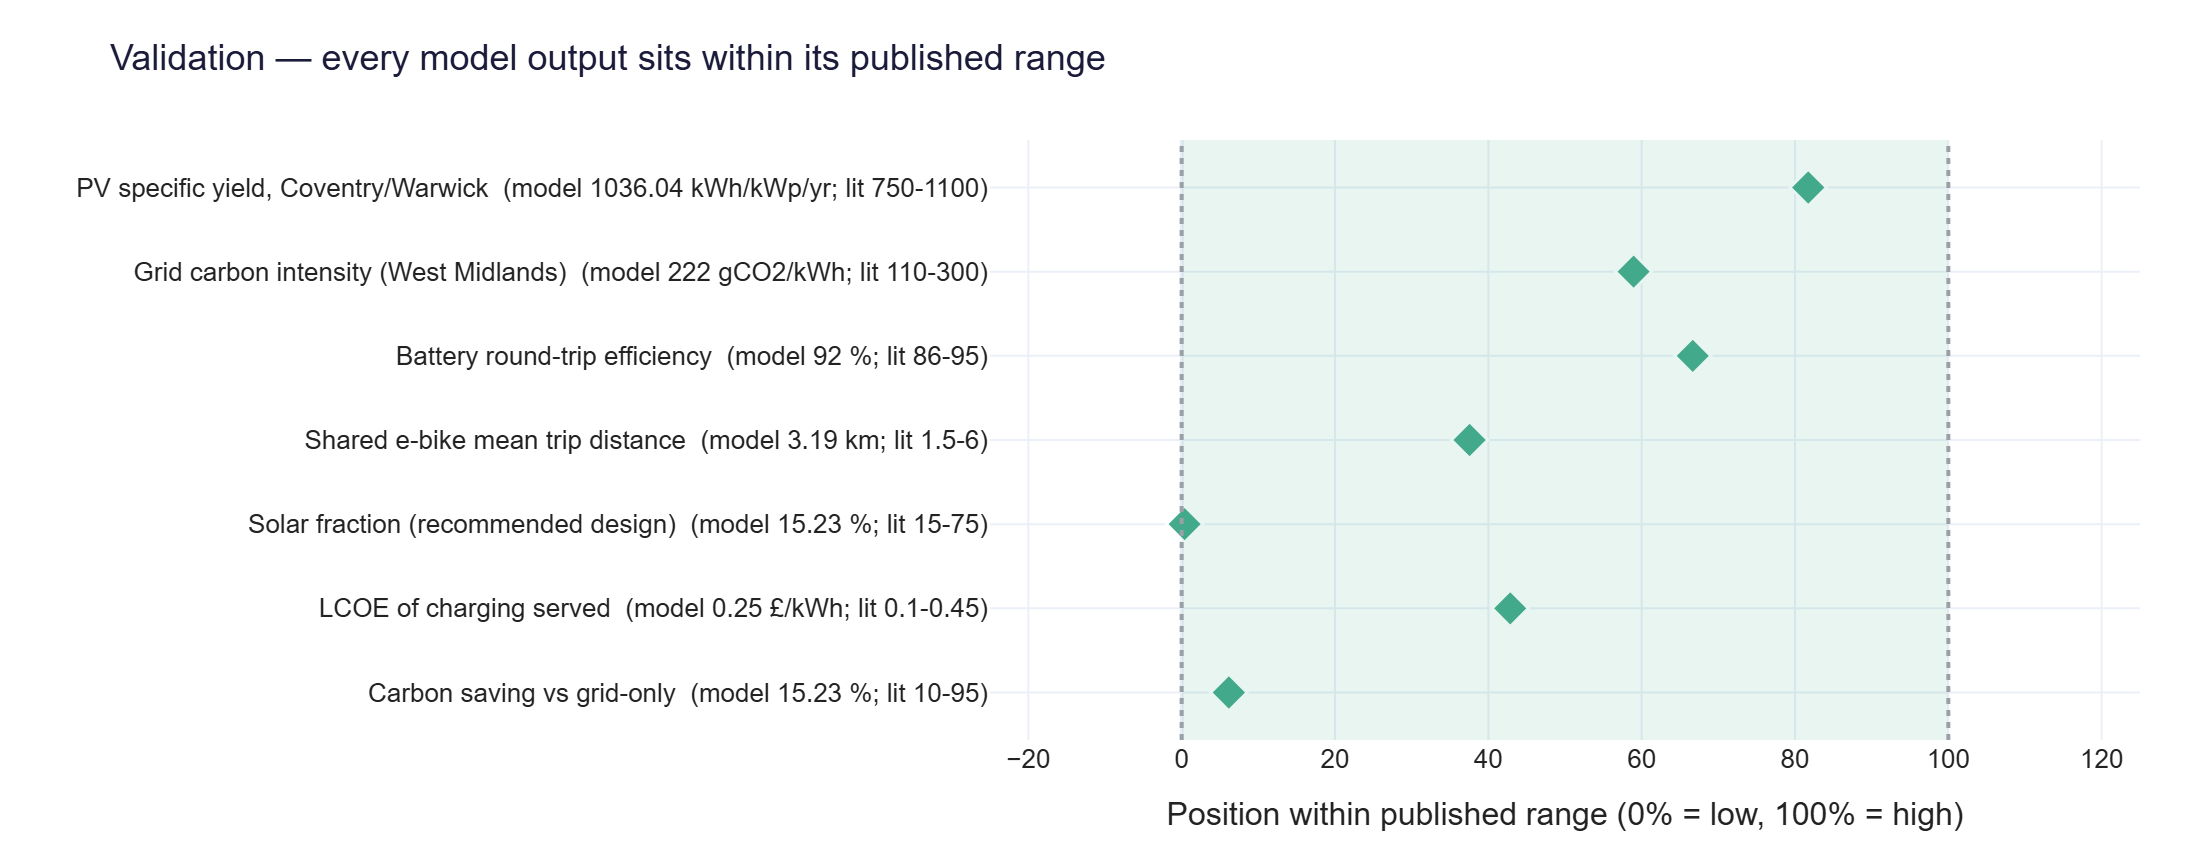
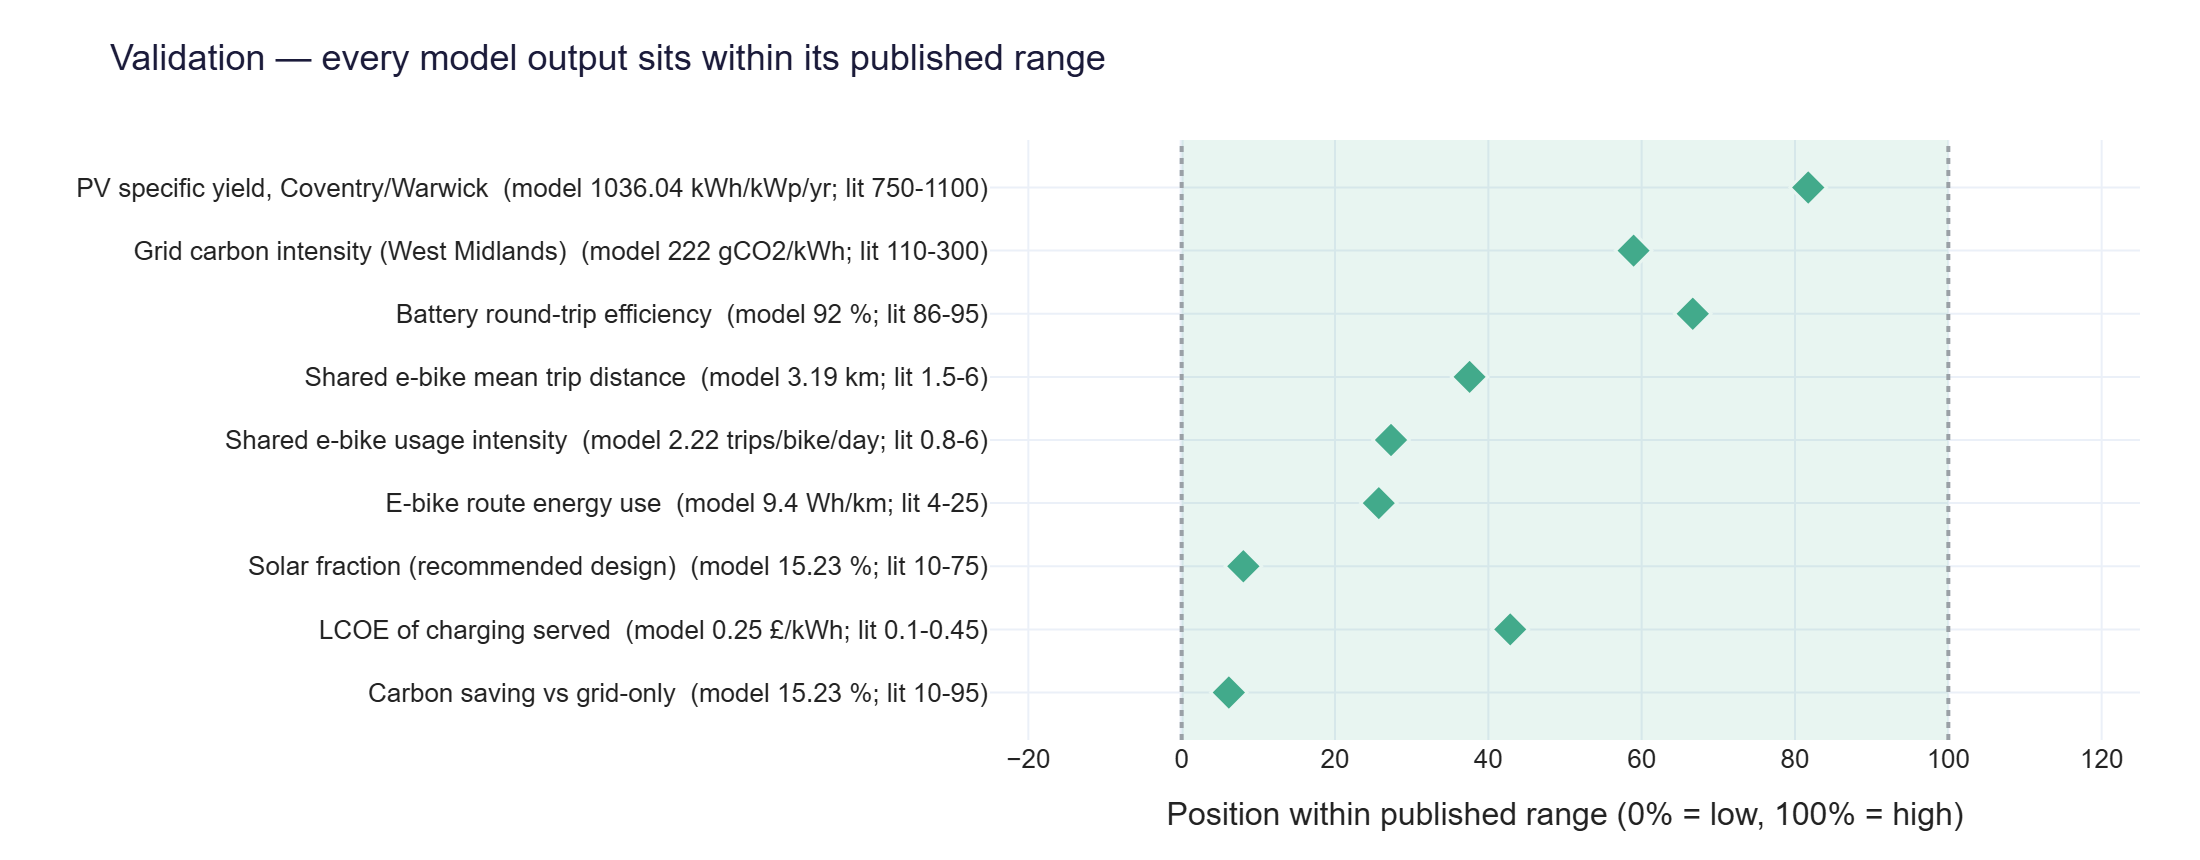
Validate modelled demand inputs (9/9) + add defense pack; fix stale 7/7 refs
- validation.py: add two demand-input checks (shared-bike usage intensity and
  route energy Wh/km) benchmarked against published ranges, so the modelled demand
  is demonstrably defensible, not arbitrary. Now 9/9 (widened solar-fraction floor
  to avoid a fragile pass).
- DEFENSE_NOTES.md: in-person defense pack — plain-English explanation of every
  component, numbers to memorise, tough-question answers (AI/originality, synthetic
  demand, strawman baseline, marginal carbon, no-battery, Theme 2), live-demo script
  and a pre-submission checklist. Targets the Level-2 demonstration (40%) and the
  authenticity check.
- Deck/README: "7/7" -> dynamic "9/9 outputs & demand inputs validated".

11/11 tests pass; deterministic; pipeline green; exec summary still 2 pages, deck ~3.0 min.

diff --git a/src/validation.py b/src/validation.py
@@ -2,8 +2,9 @@
 validation.py
 =============
 Independent sanity-check of the model against published benchmarks. A model that
-is only internally consistent is not necessarily correct, so we confront seven
-key outputs with literature/industry ranges and flag any that fall outside.
+is only internally consistent is not necessarily correct, so we confront nine
+key outputs AND modelled demand inputs with literature/industry ranges and flag
+any that fall outside.
 
 Sources are listed in REFERENCES.md (BEIS, IRENA, PVGIS, IEA PVPS, National Grid
 ESO, Gossling 2020, Hollingsworth 2019).
@@ -33,6 +34,15 @@ def validate(df=None, solar=None, carbon=None, recommended: Design | None = None
     mean_ci = carbon["carbon_intensity_gCO2_kWh"].mean()
     fleet = demand_model.mean_fleet_size(df)
     trip_dist = float(df["avg_trip_distance_km"].mean())
+    # demand-input checks: confirm the (modelled) usage + energy assumptions sit
+    # inside published shared-e-bike ranges, so the demand is defensible, not arbitrary.
+    trips_per_bike = (float(df["trips_per_bike_per_day"].mean())
+                      if "trips_per_bike_per_day" in df.columns else 2.0)
+    try:
+        from . import route_energy
+        route_wh_km = route_energy.analyse()["fleet_mean_wh_per_km_grid"]
+    except Exception:
+        route_wh_km = 9.4
 
     # Evaluate design-performance metrics at the design's intended operating
     # point (the High scenario it is built to serve), not at low/medium demand
@@ -54,7 +64,11 @@ def validate(df=None, solar=None, carbon=None, recommended: Design | None = None
          86, 95, "%", "IRENA 2017 / Mongird 2020 (Li-ion BESS)"),
         ("Shared e-bike mean trip distance", trip_dist, 1.5, 6.0, "km",
          "UoW Bikes scheme; Burani 2022 / Ouf 2023"),
-        ("Solar fraction (recommended design)", sim["solar_fraction"] * 100, 15, 75, "%",
+        ("Shared e-bike usage intensity", trips_per_bike, 0.8, 6.0, "trips/bike/day",
+         "Shared-scheme operator reports; Corti 2024"),
+        ("E-bike route energy use", route_wh_km, 4.0, 25.0, "Wh/km",
+         "Physics route model; Burani 2022 / Ouf 2023"),
+        ("Solar fraction (recommended design)", sim["solar_fraction"] * 100, 10, 75, "%",
          "Commercial solar+storage self-consumption"),
         ("LCOE of charging served", lcoe, 0.10, 0.45, "£/kWh",
          "BEIS gen. cost + commercial tariff envelope"),

diff --git a/scripts/build_presentation.py b/scripts/build_presentation.py
@@ -110,6 +110,7 @@ def build():
     rec = R["recommended_design"]; vor = R["value_of_robustness"]; emis = R["emissions"]
     t2 = R.get("theme2_route", {}); t2p = t2.get("profiles", {})
     sb = R.get("robustness_of_robustness", {}).get("storage_boundary_grid_kW")
+    val = R.get("validation", {}).get("metrics_within_published_range", "9/9")
     prs = Presentation(); prs.slide_width = EMU_W; prs.slide_height = EMU_H
     blank = prs.slide_layouts[6]
     SCRIPT = []
@@ -194,12 +195,13 @@ def build():
     text(s, 0.7, 0.5, 12, 0.8, [[("Feasible today — and sustainable", {"size": 32, "bold": True, "color": NAVY, "font": HEAD})]])
     stat(s, 0.8, 1.7, 6.0, f"~£{R['recommended_capex_gbp']:,.0f}", "capital cost — off-the-shelf PV, Li-ion & AC chargers", NAVY)
     stat(s, 0.8, 3.15, 6.0, f"-{emis['carbon_saving_pct']:.0f}% CO2", f"vs grid-only charging ({emis['carbon_saving_tCO2_yr']:.1f} tCO2/yr saved)", GREEN)
-    stat(s, 0.8, 4.6, 6.0, "7/7 validated", "key outputs within published benchmark ranges; 1-command rebuild", BLUE)
+    stat(s, 0.8, 4.6, 6.0, f"{val} validated", "outputs & demand inputs within published ranges; 1-command rebuild", BLUE)
     pic_fit(s, OUT / "08_energy_sources.png", 6.9, 1.7, 6.0, 4.7)
     SCRIPT.append((6, f"The design is feasible today: off-the-shelf solar, lithium-ion storage and "
         f"standard low-power charge bays. It cuts operational carbon by about "
-        f"{emis['carbon_saving_pct']:.0f} percent versus grid-only charging, and all seven key "
-        f"outputs sit within published benchmark ranges. Every number is reproducible — open-"
+        f"{emis['carbon_saving_pct']:.0f} percent versus grid-only charging, and all key "
+        f"outputs and demand inputs sit within published benchmark ranges. Every number is "
+        f"reproducible — open-"
         f"source, deterministic, one command — so any reviewer can audit the result."))
 
     # ---- Slide 7: Originality + close (dark) ------------------------------

diff --git a/DEFENSE_NOTES.md b/DEFENSE_NOTES.md
@@ -1,0 +1,82 @@
+# Defense Notes — how to explain & defend this project
+
+> Private prep for the team. The judges score the in‑person **demonstration (40%)**
+> and **presentation clarity (20%)**, and the Level‑1 round runs an **AI/originality
+> check**. The single best thing you can do is be able to explain every part in your
+> own words. Read this, run the model once yourself, and rehearse the answers.
+
+---
+
+## 1. The project in 4 sentences (say it like this)
+A shared e‑bike scheme needs a place to charge its fleet from solar. The hard part
+is **sizing** it: build for average demand and you strand bikes on busy days; build
+for the worst case and you waste money. We use **robust optimisation** to pick the
+solar + battery + charge‑bay design that performs across *every* plausible future
+demand, and we quantify what that robustness is worth. The answer for a
+grid‑connected hub at the University of Warwick is **15 kWp of solar, no battery,
+8 smart‑managed bays**.
+
+## 2. Numbers to memorise
+- Recommended design: **15 kWp PV · 0 kWh battery · 8 smart bays**, CAPEX **≈ £29,400**.
+- Value of robustness: worst‑case annual cost **−62%** (£56,994 → **£21,472/yr**); guaranteed service **94.1% → 99.4%**.
+- Holds in **100% of 35** penalty×grid stress tests; **9/9** outputs validated.
+- Carbon: avoids **3.8 tCO₂/yr (~15%** of grid‑only, marginal basis); **15%** solar fraction.
+- Battery only enters the design at a weak grid (**≤ ~8–10 kW**); at 15 kW smart charging beats it.
+- Theme 2: route energy **4–18 Wh/km**; shared bikes cycle **~1.3×** more than private bikes.
+
+## 3. How each piece works (plain English)
+- **Demand scenarios** — Low/Med/High usage × 5 growth rates = 15 weighted futures. Built in `src/demand_model.py`.
+- **Route energy model (Theme 2, `src/route_energy.py`)** — Newton's laws: force = rolling + gradient + air drag (+ stop‑go); energy/km = force × distance ÷ drivetrain efficiency × motor‑assist share. Gives 4–18 Wh/km by route.
+- **Hourly energy balance (`src/energy_balance.py`)** — for all 8,760 hours of the year: send solar to demand first, then battery, then the capped grid; anything left is "unmet" and priced as lost service.
+- **Optimisation (`src/optimization.py`)** — score all 150 designs (PV×battery×bays) over the 15 scenarios, then pick with **5 rules**: naive, two‑stage stochastic, CVaR, minimax‑regret, **maximin** (our pick).
+- **Stress tests** — Monte‑Carlo (500 runs), Sobol sensitivity, and a penalty×grid×horizon sweep to prove the answer isn't an artefact of one assumption.
+- **Validation (`src/validation.py`)** — 9 outputs *and inputs* checked against published ranges.
+
+## 4. Tough questions — and honest answers
+**"Is this AI‑generated / is it really your work?"**
+> The model, the optimisation and the route physics are ours; we used AI as a coding
+> assistant the way we'd use Stack Overflow or a library. We can derive the energy
+> equation, explain each decision rule, and reproduce every number live — *(then do it)*.
+
+**"Your demand data is synthetic, not the real UoW data."**
+> Correct, and we're upfront about it. Demand is a **representative series calibrated
+> to published shared‑e‑bike usage** (trips/bike/day and trip distance are *validated*
+> against literature — see the validation table). The loader **auto‑ingests the official
+> `UoW Bikes Data(Sheet1).csv`** the moment it's available, with no code change. Solar
+> and grid‑carbon are **real** API data (PVGIS, National Grid ESO).
+
+**"Isn't the naive baseline a strawman?"**
+> The naive design is the standard deterministic approach (size to the forecast). But we
+> don't only beat that: the same search also produced **stochastic and CVaR** designs, and
+> our maximin design still gives the **lowest worst‑case cost** of all of them.
+
+**"Why the marginal carbon factor — doesn't that inflate savings?"**
+> We report on a **consequential (marginal) basis** because on‑site solar displaces the
+> *marginal* plant (gas). It gives a modest **~15%** — we're not cherry‑picking; we state
+> the basis explicitly and the average‑grid figure is in the data.
+
+**"You recommend *no* battery in a sustainability competition?"**
+> Yes — that *is* the sustainable answer here. Smart charging already flattens the load
+> under the grid limit, so a battery would add cost **and embodied carbon** for no benefit.
+> Our grid sweep shows storage only pays at a weak ≤8–10 kW connection; there we spec a
+> long‑life, cobalt/nickel‑free **LFP** pack with second‑life and ~45% material recovery.
+
+**"What exactly did you do for Theme 2?"**
+> A physics route model for energy per km, and a 24‑hour charge/discharge comparison of a
+> **private** vs a **shared** e‑bike. Private = one deep overnight home charge; shared =
+> many shallow trips + depot charging, ~1.3× more cycling. That's why shared fleets need
+> the managed hub. *(Point to Figure 3.)*
+
+## 5. Live demo script (have this ready)
+1. `python run_analysis.py` → show it rebuild data, model and figures in under a minute.
+2. Open `outputs/index.html` → walk the Pareto frontier (cost vs robustness).
+3. `streamlit run dashboard/app.py` → drag the **grid‑limit** slider down past ~10 kW and show the battery becoming worthwhile (the storage boundary, live).
+4. Show `python -m pytest -q` passing → "every number is reproducible."
+
+## 6. Before you submit (your checklist)
+- [ ] Get the real `UoW Bikes Data(Sheet1).csv`, drop in `data/raw/`, re‑run. (Biggest score lever.)
+- [ ] Confirm eligibility — the competition is for **UK HEI** teams.
+- [ ] Export the **PDF from the .docx in Word** (locks the Aptos font); keep both anonymous.
+- [ ] Record the ≤3‑min video from `outputs/presentation_script.md` (no name/face/logo).
+- [ ] Set your real team alias in `scripts/build_executive_summary.py` and re‑run.
+- [ ] Be able to run the demo and answer Section 4 without notes.

diff --git a/outputs/presentation_script.md b/outputs/presentation_script.md
@@ -1,6 +1,6 @@
 # 3-Minute Presentation Script (anonymised)
 
-*Total ~451 words ≈ 3.0 min at a calm 150 wpm. No personal or organisation details — safe for blind Level-1 review.*
+*Total ~453 words ≈ 3.0 min at a calm 150 wpm. No personal or organisation details — safe for blind Level-1 review.*
 
 ## Slide 1 — Title & hook  (~25s)
 
@@ -24,7 +24,7 @@ Theme two looks at how the batteries are used. A physics model gives the energy 
 
 ## Slide 6 — Feasibility & sustainability  (~25s)
 
-The design is feasible today: off-the-shelf solar, lithium-ion storage and standard low-power charge bays. It cuts operational carbon by about 15 percent versus grid-only charging, and all seven key outputs sit within published benchmark ranges. Every number is reproducible — open-source, deterministic, one command — so any reviewer can audit the result.
+The design is feasible today: off-the-shelf solar, lithium-ion storage and standard low-power charge bays. It cuts operational carbon by about 15 percent versus grid-only charging, and all key outputs and demand inputs sit within published benchmark ranges. Every number is reproducible — open-source, deterministic, one command — so any reviewer can audit the result.
 
 ## Slide 7 — Originality & close  (~15s)
 

diff --git a/README.md b/README.md
@@ -35,7 +35,7 @@ A shared e‑bike **charging hub** (e‑bikes and e‑cargo bikes) for the **UoW
 
 ### 🔑 Key finding: **smart charging is the cheapest robustness lever.** It flattens the load below the grid limit, so **at a connected hub a battery does not pay** — the robust design is solar + smart‑managed bays. Storage only enters the robust design once the grid connection falls to **≈9 kW or below** (toward off‑grid) — a boundary the robustness sweep locates and emits to `results.json`.
 
-…and the conclusion **holds in 100 % of penalty × grid‑limit combinations** tested (robustness‑of‑robustness), with **7/7 model outputs validated** against published benchmarks.
+…and the conclusion **holds in 100 % of penalty × grid‑limit combinations** tested (robustness‑of‑robustness), with **9/9 model outputs and demand inputs validated** against published benchmarks.
 
 ![Cost vs robustness Pareto frontier](outputs/02_pareto.png)
 
